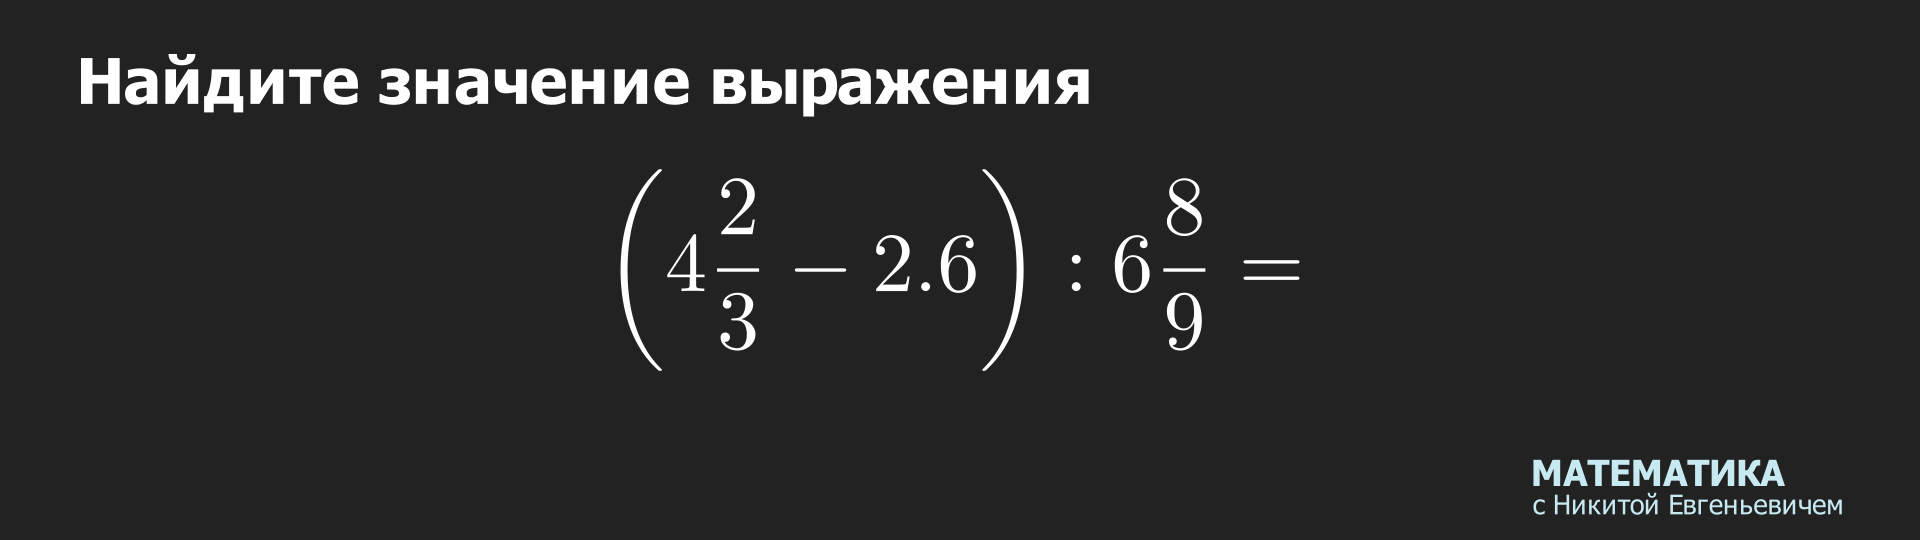
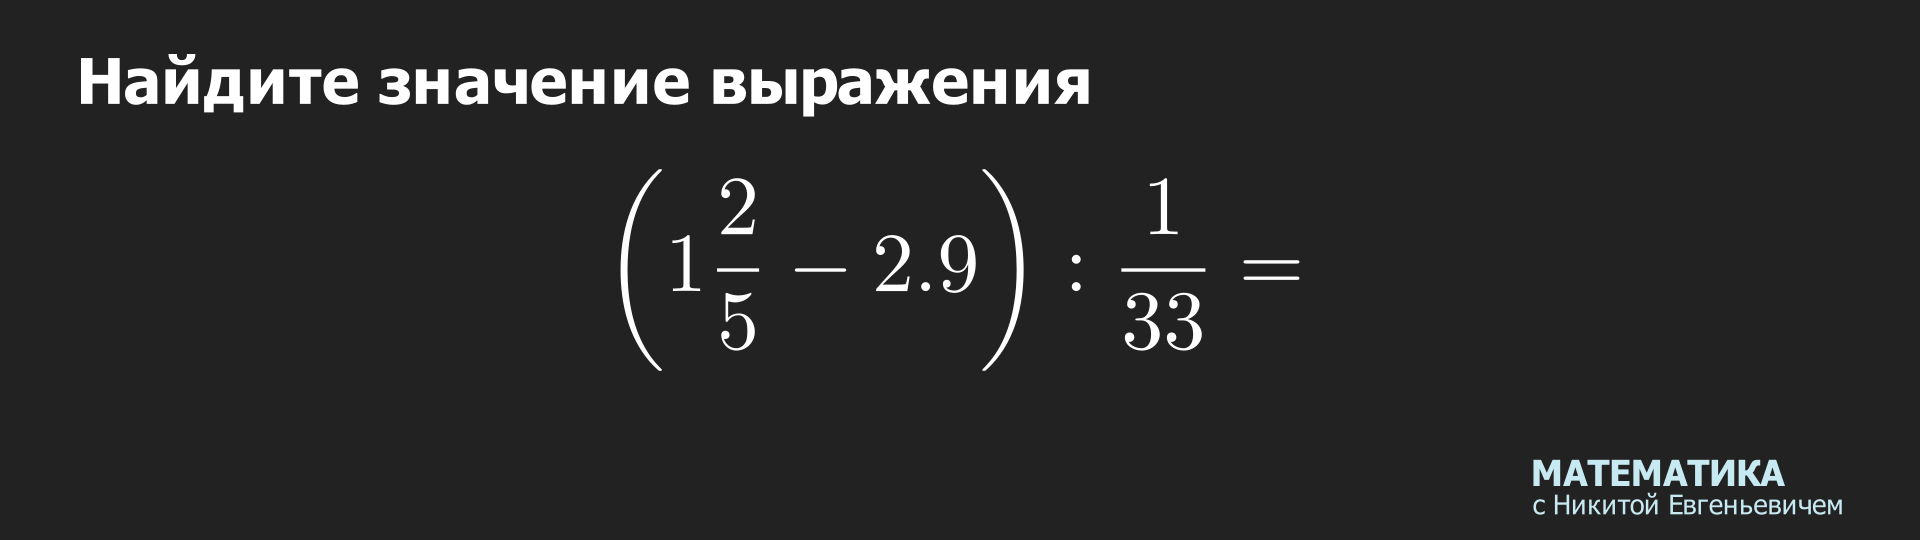
task_4_5 правки

diff --git a/main.py b/main.py
@@ -219,11 +219,10 @@ def arithmetic_5():
 
         d = random.randint(1, 40) / 10
 
-        e = random.randint(1, 6)
         f = random.randint(1, 9)
-        g = random.randint(1, 9)
+        g = random.randint(1, 70)
 
-        res = ((a * c + b) / c - d) / ((e * g + f) / g)
+        res = ((a * c + b) / c - d) / (f / g)
 
         if (d - int(d)) == 0:
             d = round(d)
@@ -239,7 +238,7 @@ def arithmetic_5():
 
         if ((res - int(res * 100) / 100) == 0) and (b < c) and (f < g) and (fract_ok == True) and (fract_ok_1 == False):
             bool = False
-            return a, b, c, e, d, f, g, res
+            return a, b, c, d, f, g, res
 
 
 class id0401005(Scene):
@@ -251,9 +250,9 @@ class id0401005(Scene):
 
         i = 0
         while i < 10:
-            a, b, c, e, d, f1, g, res = arithmetic_5()
+            a, b, c, d, f1, g, res = arithmetic_5()
 
-            t = MathTex("\\left(", a, "{", b, "\\over", c, "}", "-", d, "\\right)", ":", e, "{", f1, "\\over", g, "}"," = ", font_size=60)
+            t = MathTex("\\left(", a, "{", b, "\\over", c, "}", "-", d, "\\right)", ":", "{", f1, "\\over", g, "}"," = ", font_size=60)
 
             if (res - int(res)) == 0:
                 res = round(res)
